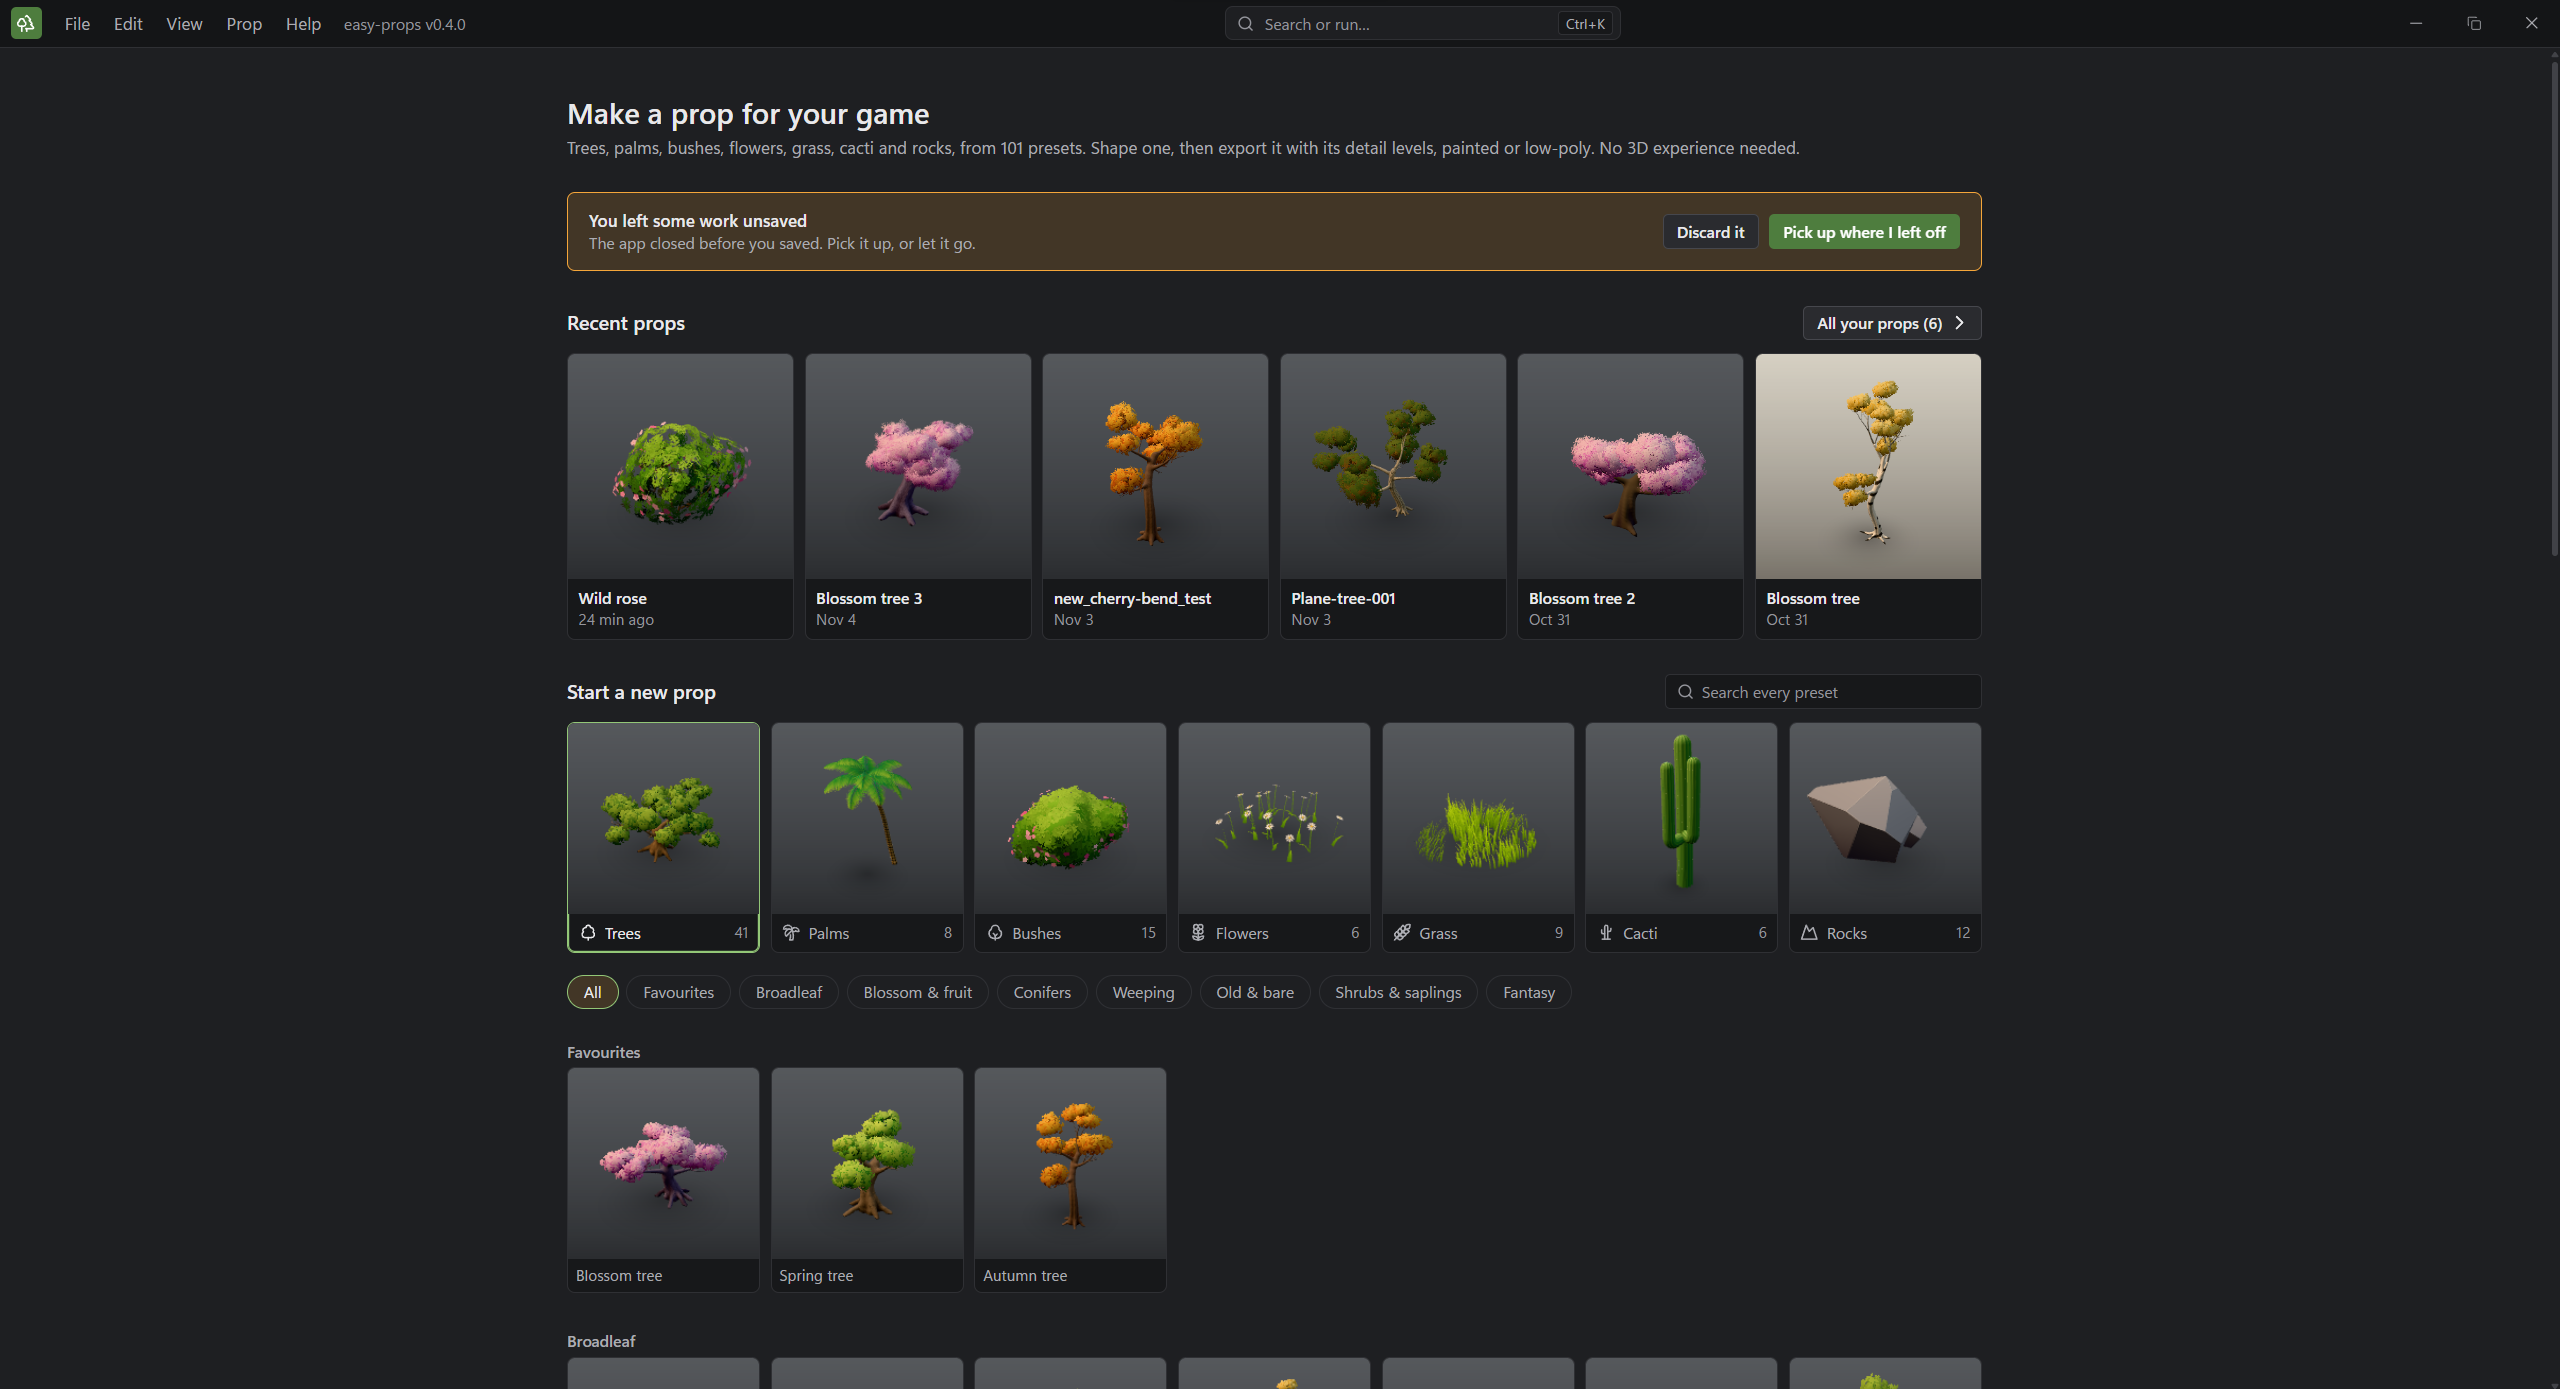
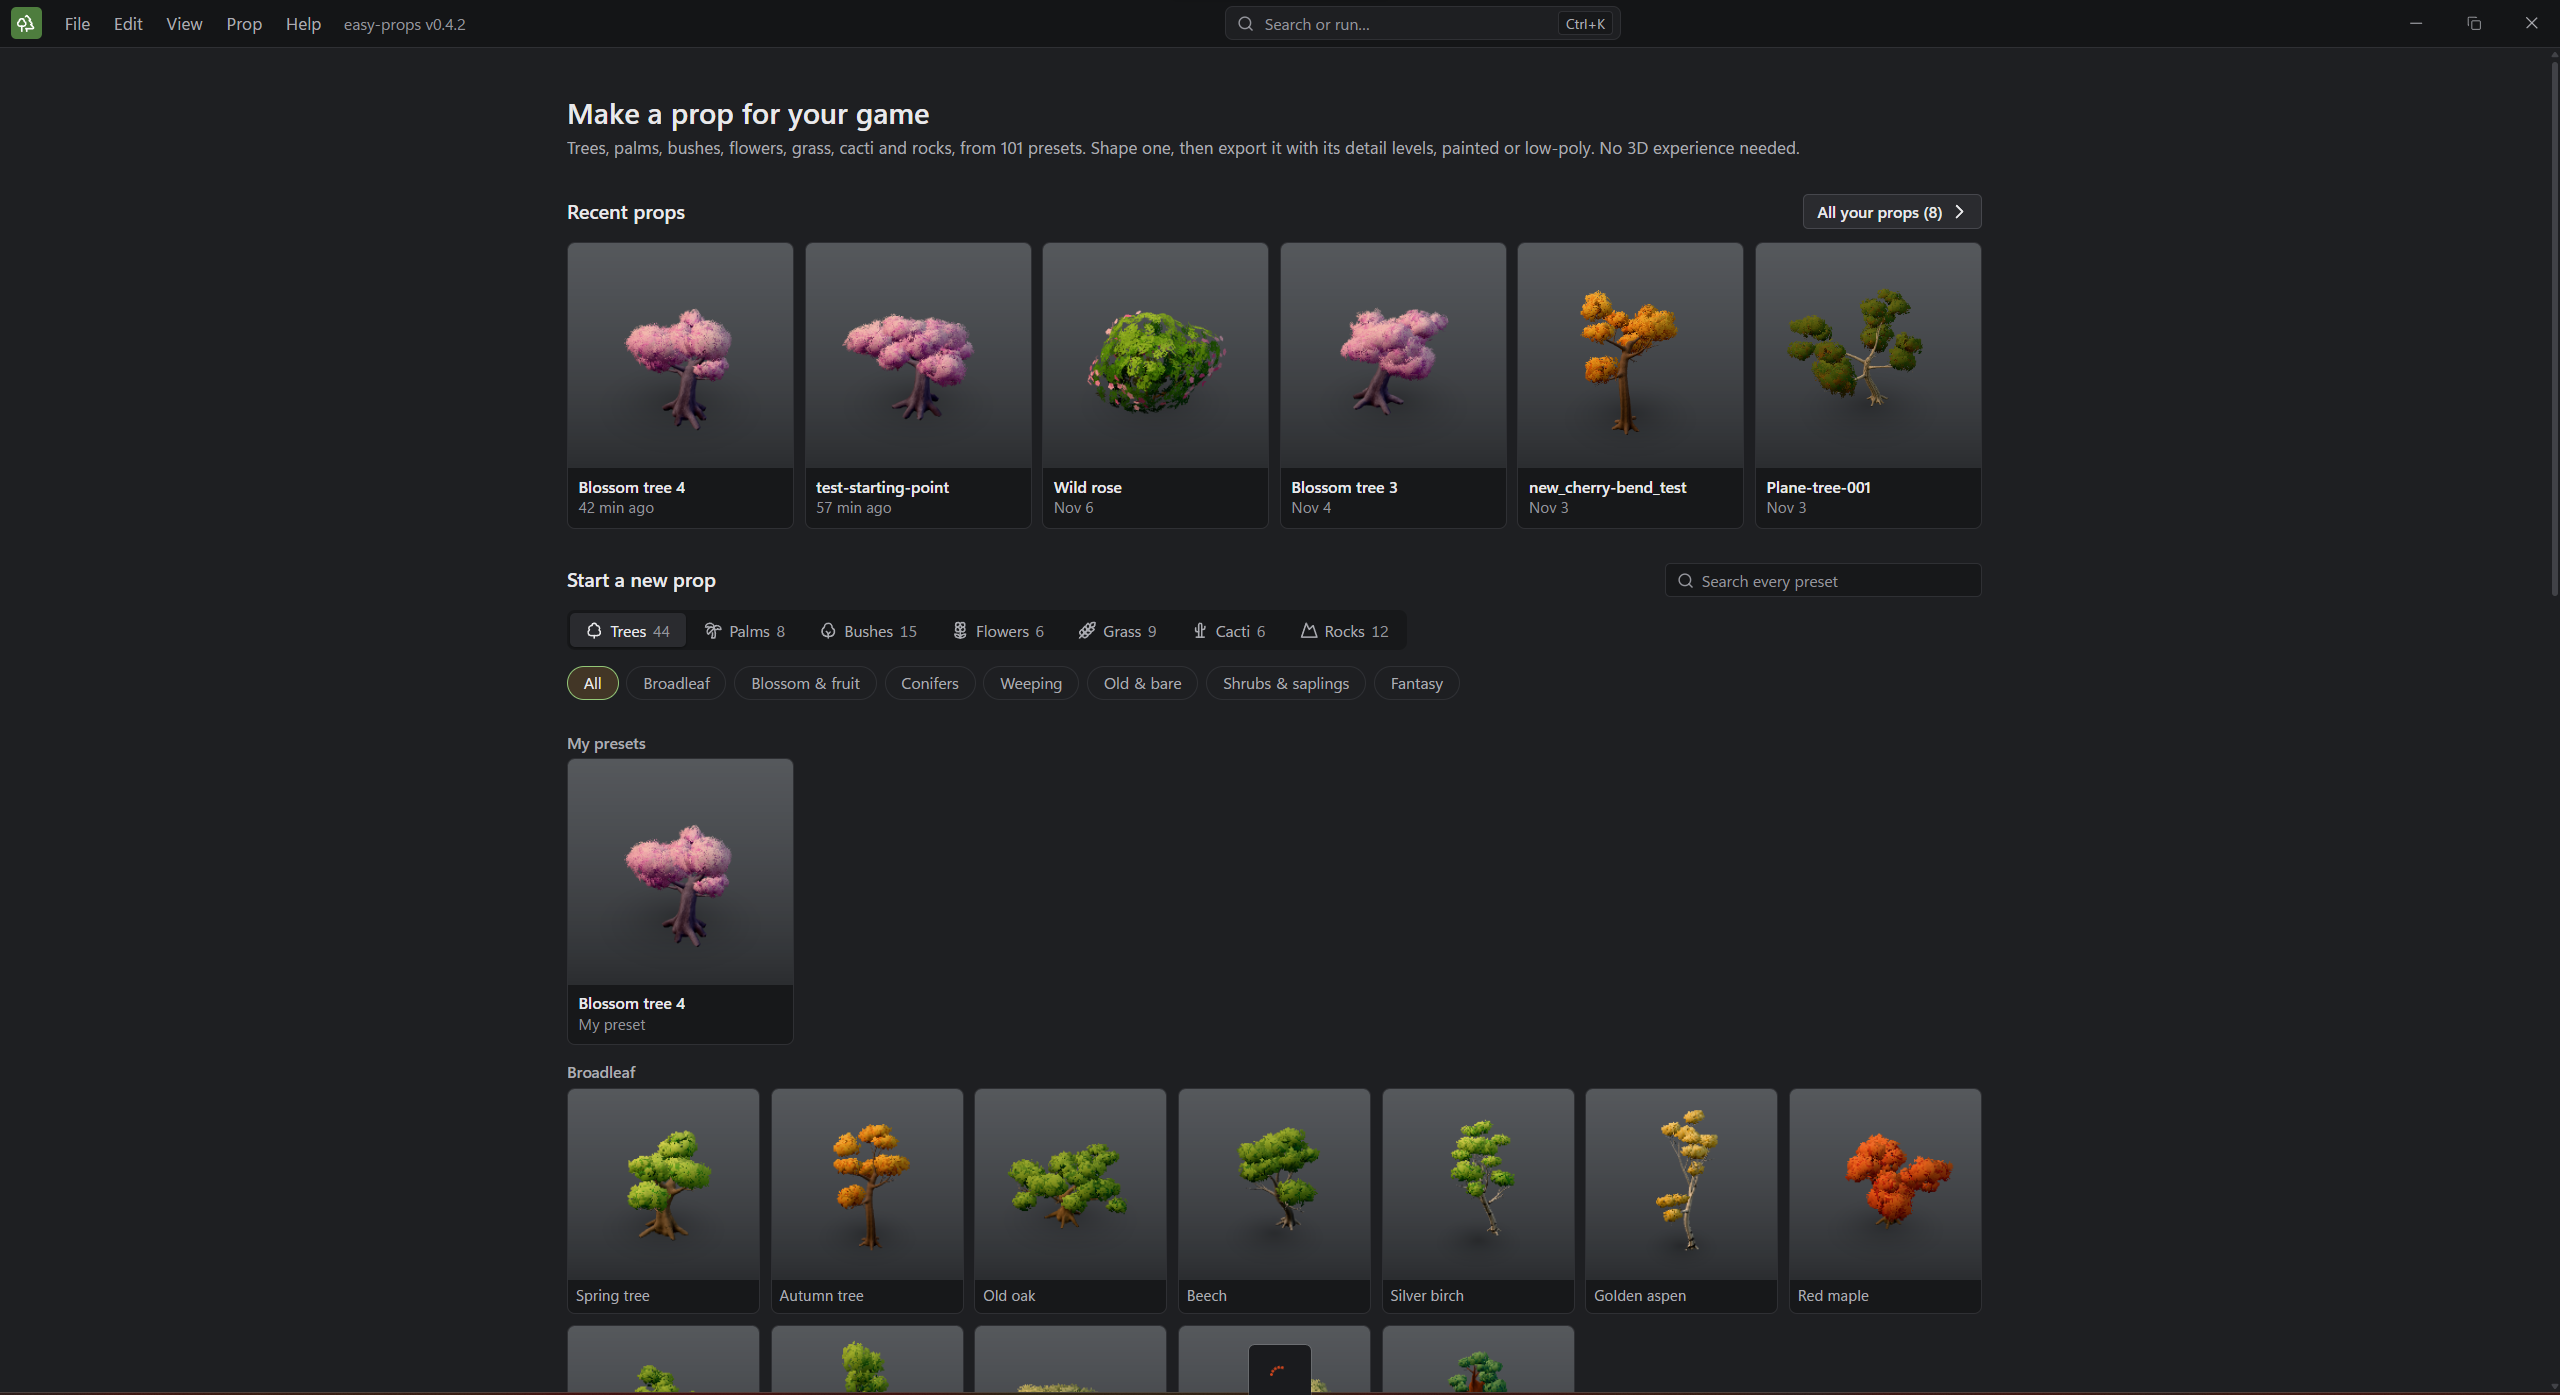
Show the new Home in the README: kind tabs and My presets

Changed region(s): [[0.0312, 0.0929, 1.0, 1.0], [0.5312, 0.712, 0.5625, 0.743], [0.2188, 0.0619, 0.25, 0.0929]]

diff --git a/README.md b/README.md
@@ -53,7 +53,7 @@ It's a focused desktop tool for props, not a replacement for Blender.
 
 ![The editor, with presets on the left, a red maple in the middle and its controls on the right](docs/images/editor.png)
 
-![The home page, with recent props, a card for each kind of prop, and presets to start from](docs/images/home.png)
+![The home page, with recent props, a tab for each kind of prop, your own presets, and the presets to start from](docs/images/home.png)
 
 ## Using props in your engine
 
